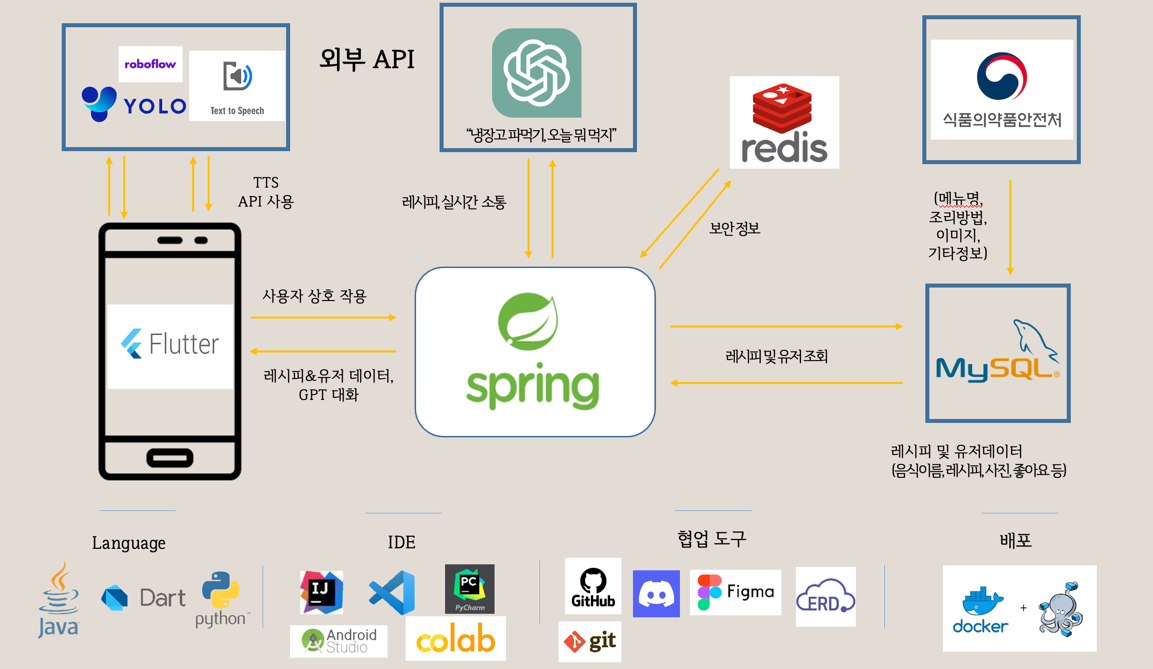
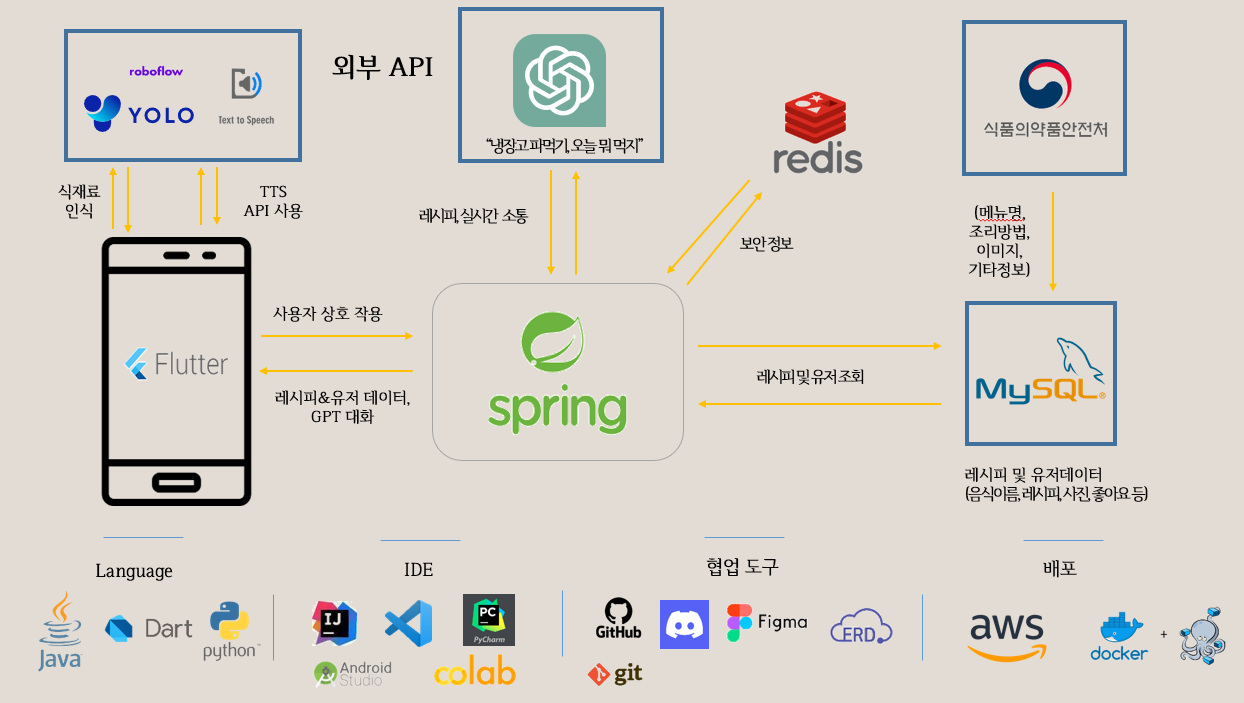
📝 [Docs] Update README

diff --git a/README.md b/README.md
@@ -30,7 +30,7 @@
   4. 조회한 음식의 레시피가 없는 경우
     - GPT에게 조회한 음식의 레시피를 추천 받음
   4. 스프링 시큐리티를 이용해 로그인 기능을 개발
-  5. Docker를 이용해 배포
+  5. AWS EC2를 이용해 배포
   6. 프로메테우스를 통해 메트릭 수집
   7. 그라파나를 이용해 모니터링
 
@@ -39,14 +39,14 @@
 ### 개발 환경
 
 - ![js](https://img.shields.io/badge/Java-ED8B00?style=for-the-badge&logo=openjdk&logoColor=white)
-- <img src="https://img.shields.io/badge/OpenJDK-white?style=for-the-badge&logo=OpenJDK&logoColor=black">
-- <img src="https://img.shields.io/badge/JUnit5-black?style=for-the-badge&logo=JUnit5&logoColor=white">
-- ORM : JPA
+- ![js](https://img.shields.io/badge/OpenJDK-white?style=for-the-badge&logo=OpenJDK&logoColor=black)
+- ![js](https://img.shields.io/badge/JUnit5-black?style=for-the-badge&logo=JUnit5&logoColor=white)
 - ![js](https://img.shields.io/badge/Spring-6DB33F?style=for-the-badge&logo=spring&logoColor=white)
 - ![js](https://img.shields.io/badge/MySQL-00000F?style=for-the-badge&logo=mysql&logoColor=white)
 - ![js](https://img.shields.io/badge/Gradle-02303A.svg?style=for-the-badge&logo=Gradle&logoColor=white)
 - ![js](https://img.shields.io/badge/Hibernate-59666C?style=for-the-badge&logo=Hibernate&logoColor=white)
 - ![js](https://img.shields.io/badge/docker-%230db7ed.svg?style=for-the-badge&logo=docker&logoColor=white)
+- ![js](https://img.shields.io/badge/Amazon_AWS-FF9900?style=for-the-badge&logo=amazonaws&logoColor=white)
 - ![js](https://img.shields.io/badge/IntelliJ_IDEA-000000.svg?style=for-the-badge&logo=intellij-idea&logoColor=white)
 - ![js](https://img.shields.io/badge/GIT-E44C30?style=for-the-badge&logo=git&logoColor=white)
 
